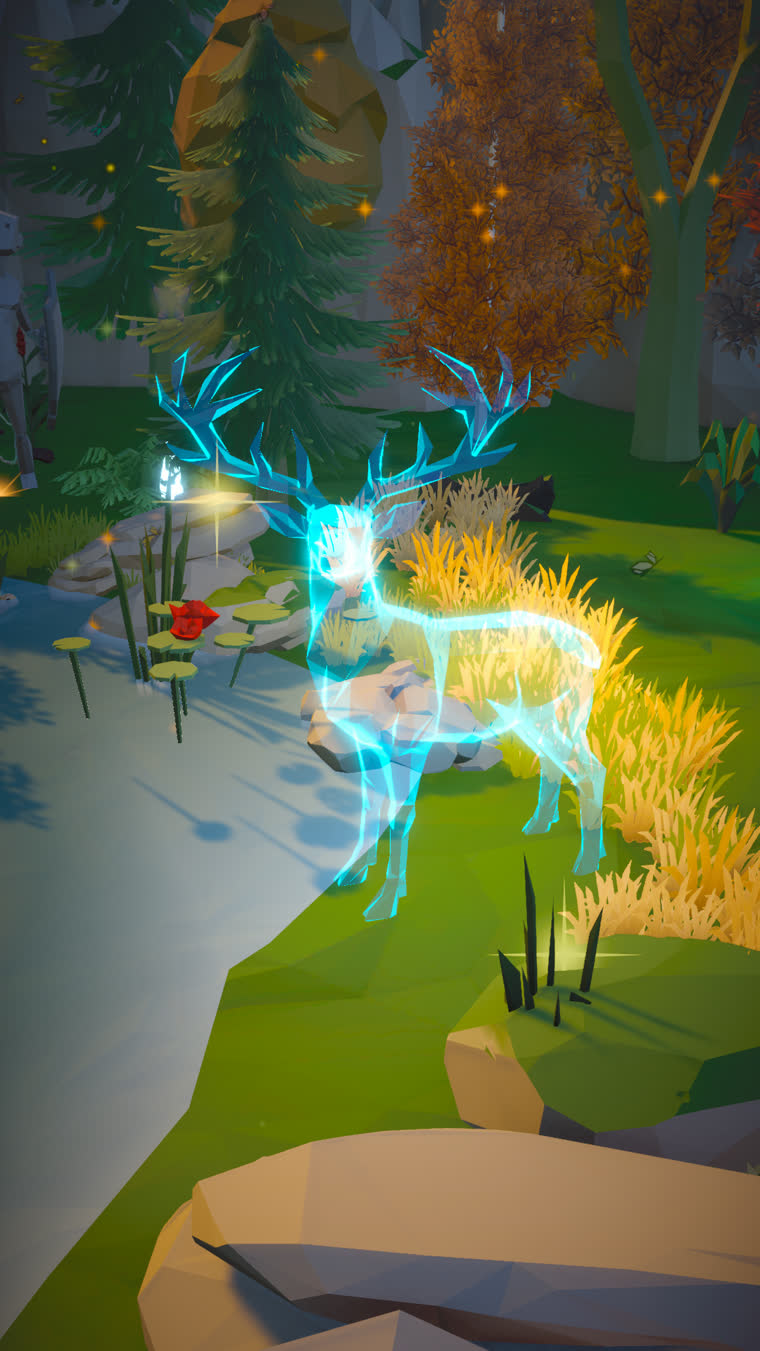
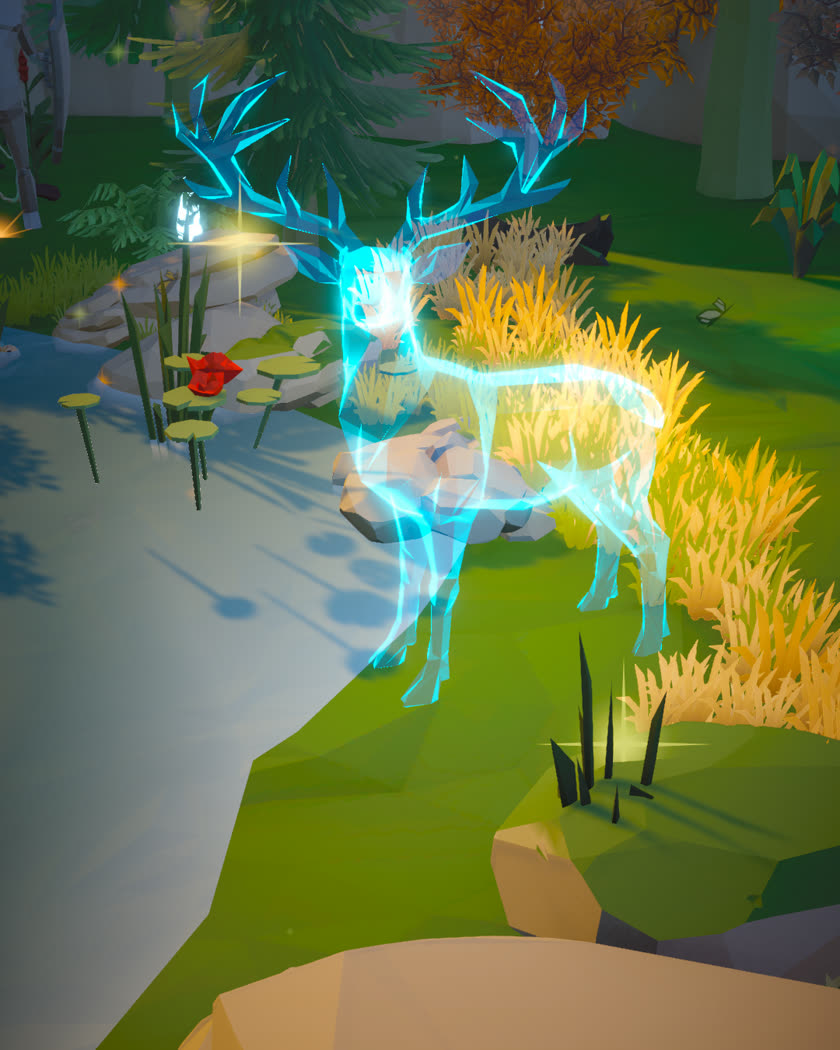
Die Baender hatten Loecher, die Bilder waren hochkant
Alle drei Bildbaender standen auf align-items:center. Weil das Spiel
1080x1920 ist, waren die Bilder doppelt so hoch wie ihr Text, und daneben
klaffte es. Jetzt oben buendig, Bildspalte 380 statt 340, und die Bilder
selbst sind auf 4:5 zugeschnitten statt 9:16.

Das Vogelbild stand als Anhaengsel unter der Ortsliste, mit der
Bildunterschrift allein in einer leeren Flaeche. Es hat jetzt ein eigenes
Band mit eigenem Text: die Voegel sind das Neueste am Spiel und tragen
einen Abschnitt.

Leveltexte 1, 3, 4 und 5 neu. Punkt 5 nannte die Lautstaerke des
Wasserfalls, und dafuer gibt es gar keinen Ton.

Dazu die vier Marken als gezeichnete Symbole neben den Namen, ein
bleibender Hinweis unter dem Aufdeckbild, und die Bedienelemente des
Videos unterdrueckt.

diff --git a/index.html b/index.html
@@ -168,14 +168,30 @@
     max-width: 46ch;
   }
   .kanaele a {
+    display: inline-flex;
+    align-items: center;
+    gap: 8px;
     color: var(--gedaempft);
     text-decoration: none;
     font-size: 14px;
-    letter-spacing: 0.06em;
-    border-bottom: 1px solid transparent;
-    padding-bottom: 2px;
+    letter-spacing: 0.04em;
+    transition: color 0.15s ease;
   }
-  .kanaele a:hover { color: var(--glut); border-bottom-color: var(--glut); }
+  .kanaele a:hover { color: var(--glut); }
+  .kanaele a:hover span { text-decoration: underline; text-underline-offset: 3px; }
+
+  /* Die vier Marken als schlichte Striche gezeichnet, nicht als Bilddateien:
+     so nehmen sie die Schriftfarbe an und wiegen nichts. */
+  .kanaele svg {
+    width: 17px;
+    height: 17px;
+    flex: none;
+    fill: none;
+    stroke: currentColor;
+    stroke-width: 1.7;
+    stroke-linejoin: round;
+    stroke-linecap: round;
+  }
 
   /* ------------------------------------------------- DAS LICHT IM WALD */
 
@@ -306,6 +322,19 @@
   }
   .wink[data-weg="ja"] { opacity: 0; }
 
+  /* DER HINWEIS UNTER DEM BILD.
+     Tobi: "vllt ein dezenter hinweis das es was bringt das man ueber die
+     bildmaske faehrt, sonst macht man das ja nicht". Der Zettel IM Bild
+     verschwindet nach der ersten Bewegung, dieser hier bleibt stehen und
+     erklaert auch den Wake/Fade-Schalter. */
+  .bildhinweis {
+    margin-block: 12px 0;
+    font-size: 14px;
+    line-height: 1.5;
+    color: var(--gedaempft);
+  }
+  .bildhinweis strong { color: var(--pergament); font-weight: 500; }
+
   /* ------------------------------------------------------------ TEILER */
 
   .teiler {
@@ -402,17 +431,23 @@
 
   /* -------------------------------------------------------- BILDBAENDER */
 
+  /* ALLE BAENDER HABEN DIESELBE FORM.
+     Vorher stand align-items auf center, und weil die Bilder hochkant sind
+     (das Spiel ist 1080x1920), war die eine Spalte doppelt so hoch wie die
+     andere. Das riss Loecher. Jetzt oben buendig, feste Bildspalte, und die
+     Bilder selbst sind auf 4:5 zugeschnitten statt 9:16. */
   .band {
     display: grid;
     grid-template-columns: 1fr;
-    gap: 32px;
-    align-items: center;
+    gap: 30px;
+    align-items: start;
   }
   @media (min-width: 860px) {
-    .band { grid-template-columns: 340px 1fr; gap: 48px; }
-    .band.gedreht { grid-template-columns: 1fr 340px; }
+    .band { grid-template-columns: 380px 1fr; gap: 52px; }
+    .band.gedreht { grid-template-columns: 1fr 380px; }
     .band.gedreht .bild { order: 2; }
   }
+  .band > div > .marke:first-child { margin-block: 0; }
 
   .bild {
     margin: 0;
@@ -423,24 +458,6 @@
   }
   .bild img,
   .bild video { width: 100%; height: auto; display: block; }
-  /* Das Vogelbild ist hochkant wie das Spiel. Ueber die ganze Breite waere
-     es eine Wand; also steht es in einer eigenen Spalte neben seiner
-     Bildunterschrift, sobald Platz da ist. */
-  .bild-breit {
-    margin-block: 48px 0;
-    display: grid;
-    grid-template-columns: 1fr;
-    max-width: 340px;
-  }
-  @media (min-width: 860px) {
-    .bild-breit {
-      max-width: none;
-      grid-template-columns: 340px 1fr;
-      align-items: end;
-    }
-    .bild-breit figcaption { align-self: center; background: transparent; font-size: 16px; padding: 0 0 0 28px; }
-  }
-
   .bild figcaption {
     line-height: 1.5;
     padding: 10px 14px;
@@ -564,13 +581,22 @@
       <p class="kleingedruckt">Runs in your browser, no download. Free.</p>
 
       <ul class="kanaele">
-        <li><a href="https://mysticartstudio.itch.io/glowing-life" target="_blank" rel="noopener">itch.io</a></li>
-        <li><a href="https://www.instagram.com/glowing.life.game/" target="_blank" rel="noopener">Instagram</a></li>
-        <li><a href="https://www.tiktok.com/@glowing.life79" target="_blank" rel="noopener">TikTok</a></li>
-        <li><a href="https://www.youtube.com/channel/UCgQvjk4SI_eo9t92er8Rphg" target="_blank" rel="noopener">YouTube</a></li>
+        <li><a href="https://mysticartstudio.itch.io/glowing-life" target="_blank" rel="noopener">
+          <svg viewBox="0 0 24 24" aria-hidden="true"><path d="M5.6 4.6h12.8l2.4 3.8v2c0 1.3-1.7 1.7-2.5.7-.8 1-2.2 1-3 0-.8 1-2.2 1-3 0-.8 1-2.2 1-3 0-.8 1-2.5.6-2.5-.7v-2z"/><path d="M5 11.2V19h14v-7.8"/><path d="M9.9 19v-3.8h4.2V19"/></svg>
+          <span>itch.io</span></a></li>
+        <li><a href="https://www.instagram.com/glowing.life.game/" target="_blank" rel="noopener">
+          <svg viewBox="0 0 24 24" aria-hidden="true"><rect x="3" y="3" width="18" height="18" rx="5.2"/><circle cx="12" cy="12" r="4.1"/><circle cx="17.3" cy="6.7" r="1.15" fill="currentColor" stroke="none"/></svg>
+          <span>Instagram</span></a></li>
+        <li><a href="https://www.tiktok.com/@glowing.life79" target="_blank" rel="noopener">
+          <svg viewBox="0 0 24 24" aria-hidden="true"><path d="M14.3 3.3v10.5a3.9 3.9 0 1 1-3.4-3.87"/><path d="M14.3 3.3c.35 2.45 1.9 4 4.35 4.3"/></svg>
+          <span>TikTok</span></a></li>
+        <li><a href="https://www.youtube.com/channel/UCgQvjk4SI_eo9t92er8Rphg" target="_blank" rel="noopener">
+          <svg viewBox="0 0 24 24" aria-hidden="true"><rect x="2.2" y="5.3" width="19.6" height="13.4" rx="4.4"/><path d="M10.3 9.2 15.7 12l-5.4 2.8z" fill="currentColor" stroke="none"/></svg>
+          <span>YouTube</span></a></li>
       </ul>
     </div>
 
+    <div class="bildspalte">
     <div class="erwecken" id="erwecken" data-richtung="wecken">
       <img class="bild-wach" id="bildWach" src="img/wach.jpg" alt="The same clearing awake: green grass, blossoming trees in pink and orange, fireflies over the water">
       <img class="bild-schlafend" id="bildSchlafend" src="img/schlafend.jpg" alt="A forest clearing at night, dark and asleep in the rain">
@@ -583,6 +609,12 @@
 
       <p class="wink" id="wink">Move your light</p>
     </div>
+
+    <p class="bildhinweis">
+      Move your cursor across the picture. The forest comes back wherever your
+      light falls, and <strong>Fade</strong> runs it the other way.
+    </p>
+  </div>
   </header>
 
   <hr class="teiler">
@@ -621,6 +653,7 @@
       <figure class="bild">
         <video src="img/levelbuch.mp4" poster="img/levelbuch_still.jpg"
                autoplay loop muted playsinline preload="metadata"
+               disablepictureinpicture disableremoteplayback
                aria-label="A book on the forest floor, its pages turning to show the places you can go"></video>
         <figcaption>You do not pick a level from a menu. You turn the pages of a book, and each one holds a place.</figcaption>
       </figure>
@@ -629,19 +662,40 @@
         <h2>Somewhere, something is waiting to live again.</h2>
         <p class="fliess">Each one asks for a different thing:</p>
         <ol class="orte">
-          <li><span>Wake the ancestral tree<em>The swamp and the first thing that answers you</em></span></li>
+          <li><span>Wake the ancestral tree<em>It has stood in the swamp so long that the water forgot it</em></span></li>
           <li><span>Join the broken crossing<em>Two shores and nothing between them</em></span></li>
-          <li><span>Earn a deer's trust<em>It will not come to you. You have to be worth coming to</em></span></li>
-          <li><span>Bring the fox cubs home<em>They scattered. The den is still warm</em></span></li>
-          <li><span>Wake the waterfall<em>The loudest thing in the world, gone quiet</em> <b class="spaeter">Not in the demo yet</b></span></li>
+          <li><span>Earn a deer's trust<em>It keeps its distance and watches what you do</em></span></li>
+          <li><span>Bring the fox cubs home<em>Their mother is out searching and she will not find them alone</em></span></li>
+          <li><span>Wake the waterfall<em>The rock face is dry and the pool below it is still</em> <b class="spaeter">Not in the demo yet</b></span></li>
         </ol>
       </div>
     </div>
+  </section>
 
-    <figure class="bild bild-breit">
-      <img src="img/voegel.jpg" alt="Colourful birds sitting on a low branch over a glowing pond">
-      <figcaption>And when a place wakes, the birds arrive. They land, hop aside when you walk through them and some will sit on your head.</figcaption>
-    </figure>
+  <hr class="teiler">
+
+  <section>
+    <div class="band">
+      <figure class="bild">
+        <img src="img/voegel.jpg" alt="A pink bird and a yellow bird sitting close together on a branch above a glowing pond">
+        <figcaption>Fourteen different plumages, and every bird a slightly different size.</figcaption>
+      </figure>
+      <div>
+        <p class="marke">What comes back</p>
+        <h2>Finish a place and the birds arrive.</h2>
+        <p class="fliess">
+          They fly in, pick a spot and land on it: a rock, a branch, the grass
+          beside you. Then they stay. They shake themselves out, scratch, peck
+          at the ground and look over at you.
+        </p>
+        <p class="fliess">
+          <strong>Walk into them and they do not scatter. They make room.</strong>
+          A hop to the side, a few quick steps, or a short low arc to a spot
+          two meters over, and then they settle again. And if you stand still
+          long enough, one of them will land on your head.
+        </p>
+      </div>
+    </div>
   </section>
 
   <hr class="teiler">
